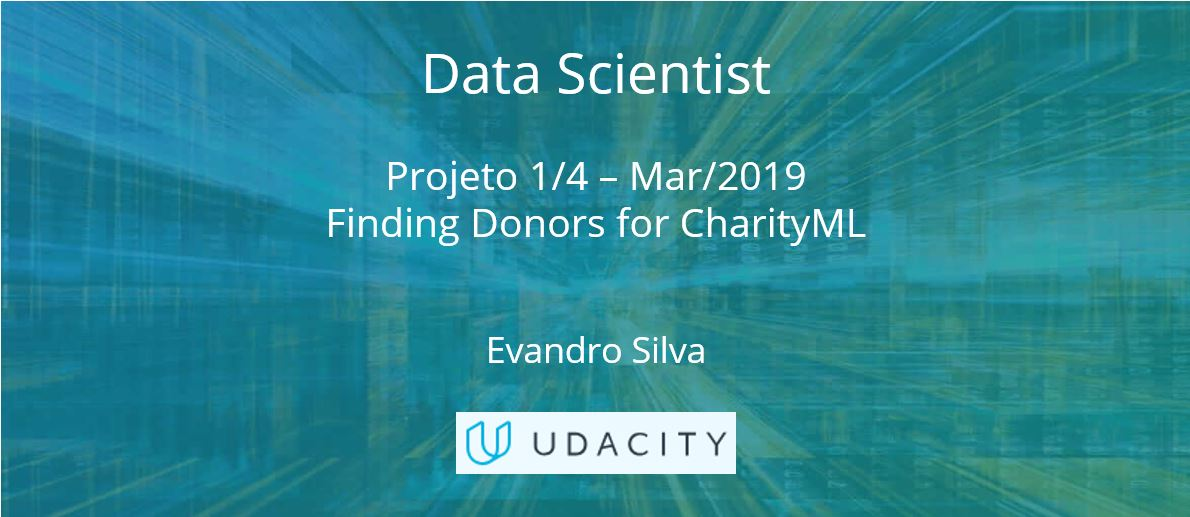
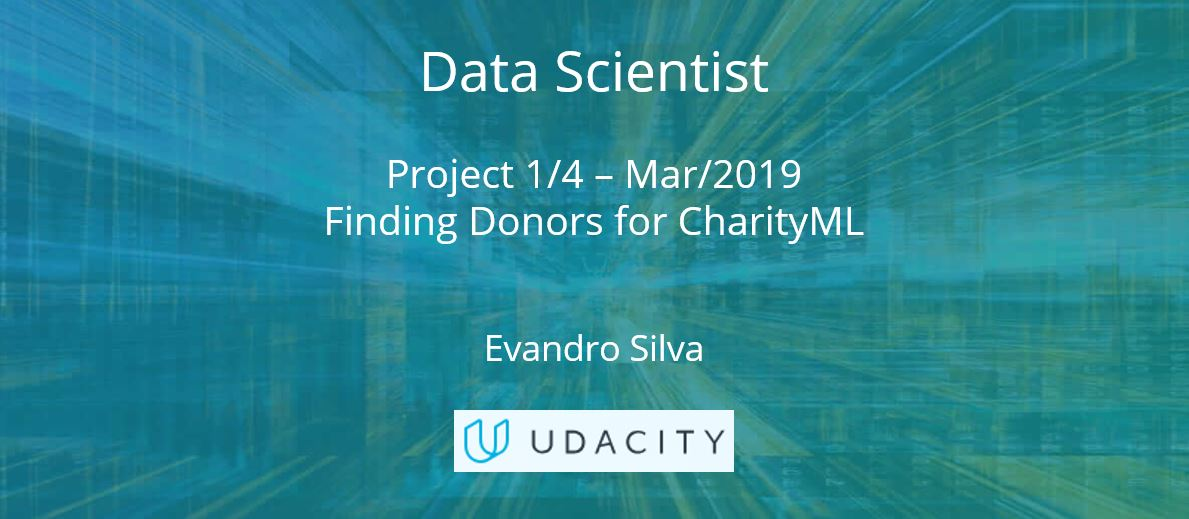
Image Adjust

diff --git a/README.md b/README.md
@@ -1,8 +1,8 @@
 ### Data Scientist Nanodegree - Project 1 of 4 (UDACITY)
 ![Finding Donors for CharityML](images/DS3_M02_img.jpg)
 
-#### Project/Business Porpouse: 
-- - need to include ->>Def_Proj - Finding Donors for CharityML.pdf
+#### Project/Business Purpose: 
+- - need to include ->>Proj_Def - Finding Donors for CharityML.pdf
 
 #### Entrega: 
 - finding_donors.html
